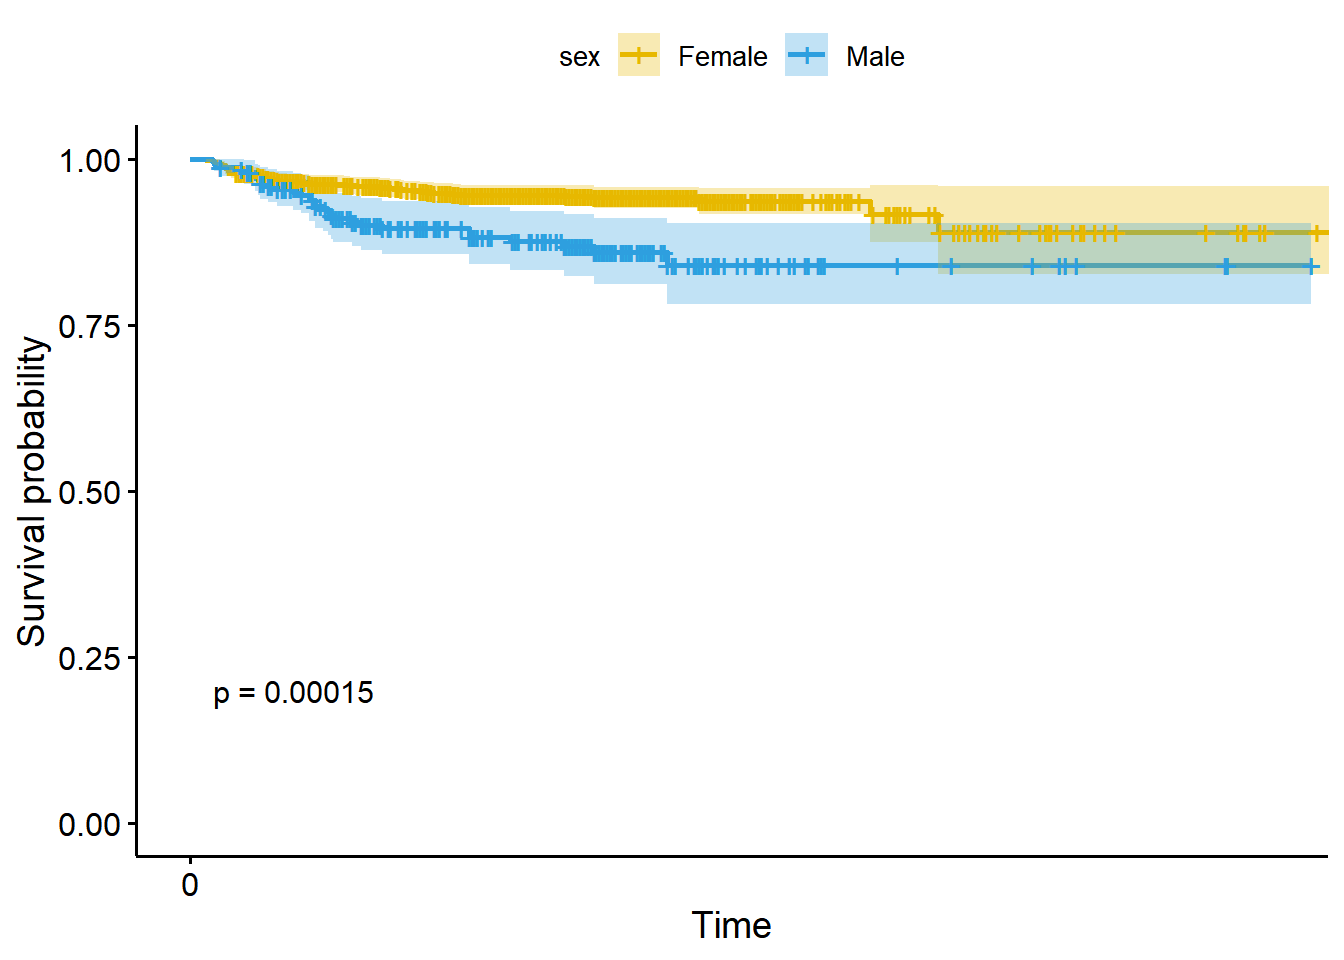
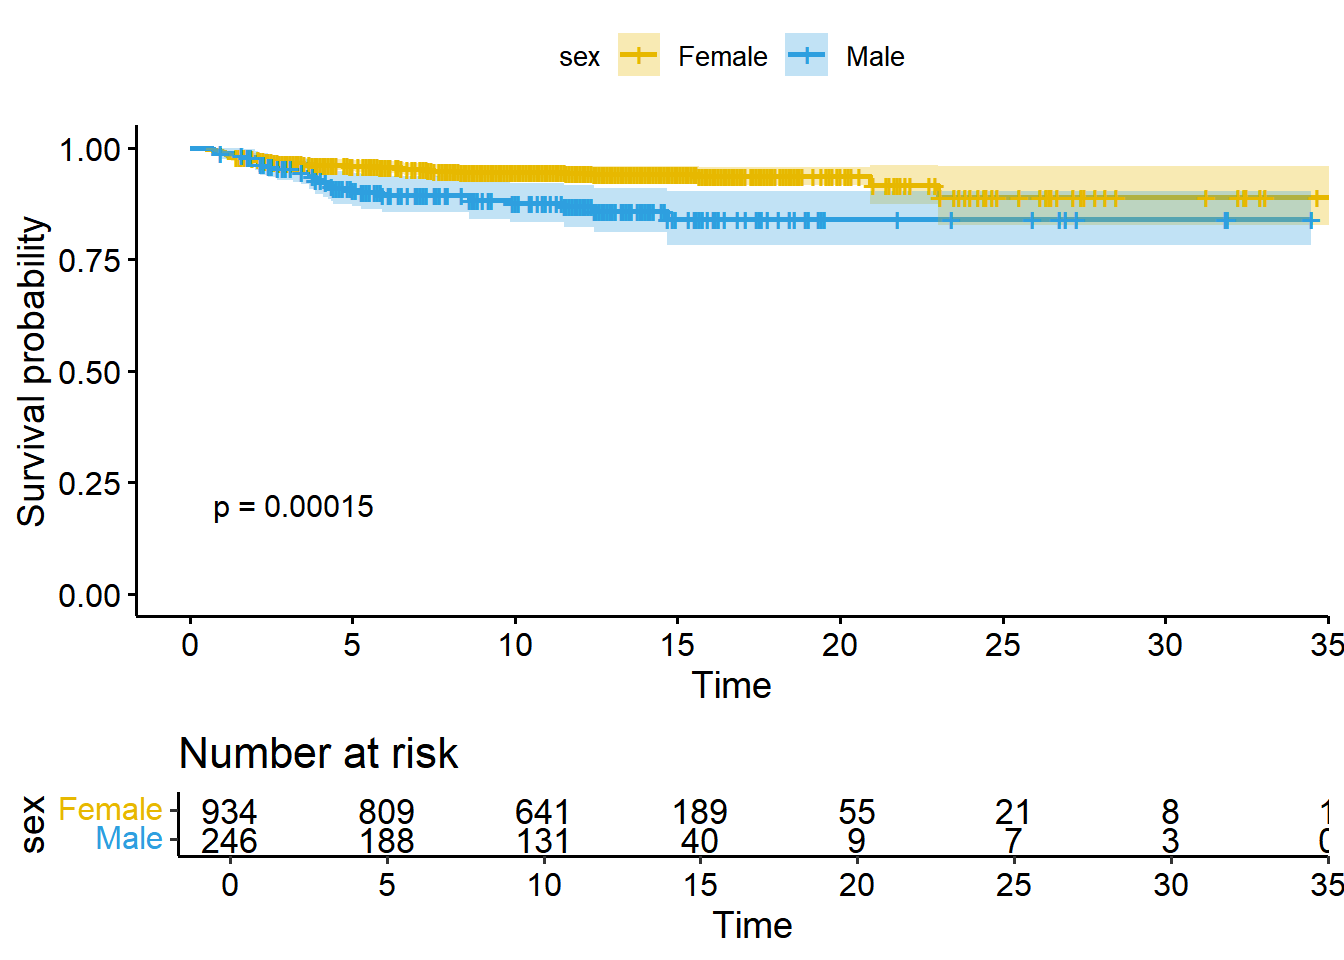
comments

diff --git a/docs/index.html b/docs/index.html
@@ -149,6 +149,7 @@ pre > code.sourceCode > span > a:first-child::before { text-decoration: underlin
   <li><a href="#mytable" id="toc-mytable" class="nav-link" data-scroll-target="#mytable">mytable</a></li>
   <li><a href="#surv함수" id="toc-surv함수" class="nav-link" data-scroll-target="#surv함수">Surv함수</a></li>
   <li><a href="#survfit함수와-객체" id="toc-survfit함수와-객체" class="nav-link" data-scroll-target="#survfit함수와-객체">survfit함수와 객체</a></li>
+  <li><a href="#plot-그래프를-수정" id="toc-plot-그래프를-수정" class="nav-link" data-scroll-target="#plot-그래프를-수정">plot 그래프를 수정</a></li>
   </ul>
 </nav>
     </div>
@@ -230,7 +231,7 @@ Attaching package: 'dplyr'</code></pre>
 <h3 class="anchored" data-anchor-id="mytable">mytable</h3>
 <ul>
 <li>mytable로 자료 개요 파악</li>
-<li>LaTex 출력은 성공하지 못함.</li>
+<li>mylatex 출력은 성공하지 못함.</li>
 </ul>
 <div class="cell">
 <div class="sourceCode cell-code" id="cb6"><pre class="sourceCode r code-with-copy"><code class="sourceCode r"><span id="cb6-1"><a href="#cb6-1" aria-hidden="true" tabindex="-1"></a><span class="fu">library</span>(moonBook)</span>
@@ -356,6 +357,7 @@ Attaching package: 'dplyr'</code></pre>
 </div>
 <ul>
 <li>plot() 함수는 제네릭 함수로, 기본적으로 산점도를 그리지만, Surv 객체를 인자로 받으면 내부적으로 plot.survfit() 메서드를 호출하여 Kaplan-Meier(KM) 곡선을 반환함</li>
+<li>time의 단위가 월이라서 x 축은 400까지 표시됨</li>
 </ul>
 <div class="cell">
 <div class="sourceCode cell-code" id="cb12"><pre class="sourceCode r code-with-copy"><code class="sourceCode r"><span id="cb12-1"><a href="#cb12-1" aria-hidden="true" tabindex="-1"></a><span class="fu">plot</span>(km) <span class="do">## km - Surv class (time, status) 가지고 있는 리스트</span></span></code><button title="Copy to Clipboard" class="code-copy-button"><i class="bi"></i></button></pre></div>
@@ -370,8 +372,8 @@ Attaching package: 'dplyr'</code></pre>
 <ul>
 <li><strong>survfit 함수의 인자</strong>로 사용되므로 중요</li>
 </ul>
-<section id="중앙생존시간-및-평균생존시간" class="level4">
-<h4 class="anchored" data-anchor-id="중앙생존시간-및-평균생존시간">** 중앙생존시간 및 평균생존시간</h4>
+<section id="중앙생존시간" class="level4">
+<h4 class="anchored" data-anchor-id="중앙생존시간">중앙생존시간</h4>
 <div class="cell">
 <div class="sourceCode cell-code" id="cb13"><pre class="sourceCode r code-with-copy"><code class="sourceCode r"><span id="cb13-1"><a href="#cb13-1" aria-hidden="true" tabindex="-1"></a><span class="fu">median</span>(km)  <span class="do">## Surv 객체에 대한 method 함수들이 있다.</span></span></code><button title="Copy to Clipboard" class="code-copy-button"><i class="bi"></i></button></pre></div>
 <div class="cell-output cell-output-stdout">
@@ -388,6 +390,9 @@ $upper
 NA </code></pre>
 </div>
 </div>
+</section>
+<section id="평균생존기간" class="level4">
+<h4 class="anchored" data-anchor-id="평균생존기간">평균생존기간</h4>
 <div class="cell">
 <div class="sourceCode cell-code" id="cb15"><pre class="sourceCode r code-with-copy"><code class="sourceCode r"><span id="cb15-1"><a href="#cb15-1" aria-hidden="true" tabindex="-1"></a><span class="fu">mean</span>(km)</span></code><button title="Copy to Clipboard" class="code-copy-button"><i class="bi"></i></button></pre></div>
 <div class="cell-output cell-output-stdout">
@@ -400,6 +405,7 @@ NA </code></pre>
 <h3 class="anchored" data-anchor-id="survfit함수와-객체">survfit함수와 객체</h3>
 <ul>
 <li>Surv 객체와 공변량을 formula 형태의 인자로 받아 Kaplan-Meier 또는 Cox 모델 기반 생존 확률을 저장한 객체를 반환</li>
+<li>Kaplan-Meier 기반</li>
 </ul>
 <div class="cell">
 <div class="sourceCode cell-code" id="cb17"><pre class="sourceCode r code-with-copy"><code class="sourceCode r"><span id="cb17-1"><a href="#cb17-1" aria-hidden="true" tabindex="-1"></a><span class="fu">plot</span>(<span class="fu">survfit</span>(km<span class="sc">~</span><span class="dv">1</span>)) <span class="co">#Kaplan-Meier 기반</span></span></code><button title="Copy to Clipboard" class="code-copy-button"><i class="bi"></i></button></pre></div>
@@ -411,6 +417,9 @@ NA </code></pre>
 </div>
 </div>
 </div>
+<ul>
+<li>cox model 기반</li>
+</ul>
 <div class="cell">
 <div class="sourceCode cell-code" id="cb18"><pre class="sourceCode r code-with-copy"><code class="sourceCode r"><span id="cb18-1"><a href="#cb18-1" aria-hidden="true" tabindex="-1"></a>km_fit <span class="ot">&lt;-</span> <span class="fu">survfit</span>(km<span class="sc">~</span>rai_recur<span class="sc">$</span>sex) <span class="co">#cox model 기반</span></span>
 <span id="cb18-2"><a href="#cb18-2" aria-hidden="true" tabindex="-1"></a></span>
@@ -423,6 +432,9 @@ NA </code></pre>
 </div>
 </div>
 </div>
+<ul>
+<li>summary</li>
+</ul>
 <div class="cell">
 <div class="sourceCode cell-code" id="cb19"><pre class="sourceCode r code-with-copy"><code class="sourceCode r"><span id="cb19-1"><a href="#cb19-1" aria-hidden="true" tabindex="-1"></a><span class="fu">summary</span>(km_fit) </span></code><button title="Copy to Clipboard" class="code-copy-button"><i class="bi"></i></button></pre></div>
 <div class="cell-output cell-output-stdout">
@@ -500,24 +512,62 @@ NA </code></pre>
   176     46       1    0.840 0.03088        0.782        0.903</code></pre>
 </div>
 </div>
+<ul>
+<li>1~19년</li>
+</ul>
 <div class="cell">
-<div class="sourceCode cell-code" id="cb21"><pre class="sourceCode r code-with-copy"><code class="sourceCode r"><span id="cb21-1"><a href="#cb21-1" aria-hidden="true" tabindex="-1"></a><span class="fu">summary</span>(km_fit, <span class="fu">c</span>(<span class="dv">365</span><span class="sc">*</span><span class="dv">1</span><span class="sc">:</span><span class="dv">19</span>)) <span class="do">### 정해진 time에 맞는 생존테이블표를 만든다.</span></span></code><button title="Copy to Clipboard" class="code-copy-button"><i class="bi"></i></button></pre></div>
+<div class="sourceCode cell-code" id="cb21"><pre class="sourceCode r code-with-copy"><code class="sourceCode r"><span id="cb21-1"><a href="#cb21-1" aria-hidden="true" tabindex="-1"></a><span class="fu">summary</span>(km_fit, <span class="fu">c</span>(<span class="dv">12</span><span class="sc">*</span><span class="dv">1</span><span class="sc">:</span><span class="dv">19</span>)) <span class="do">### 정해진 time에 맞는 생존테이블표를 만든다.</span></span></code><button title="Copy to Clipboard" class="code-copy-button"><i class="bi"></i></button></pre></div>
 <div class="cell-output cell-output-stdout">
 <pre><code>Call: survfit(formula = km ~ rai_recur$sex)
 
                 rai_recur$sex=F 
-        time       n.risk      n.event     survival      std.err lower 95% CI 
-    365.0000       8.0000      53.0000       0.8898       0.0335       0.8265 
-upper 95% CI 
-      0.9579 
+ time n.risk n.event survival std.err lower 95% CI upper 95% CI
+   12    926       9    0.990 0.00320        0.984        0.997
+   24    898      12    0.978 0.00485        0.968        0.987
+   36    868      11    0.965 0.00601        0.954        0.977
+   48    833       3    0.962 0.00630        0.950        0.974
+   60    809       2    0.960 0.00650        0.947        0.972
+   72    777       2    0.957 0.00670        0.944        0.970
+   84    753       4    0.952 0.00712        0.938        0.966
+   96    723       3    0.948 0.00743        0.934        0.963
+  108    687       2    0.946 0.00764        0.931        0.961
+  120    641       0    0.946 0.00764        0.931        0.961
+  132    559       0    0.946 0.00764        0.931        0.961
+  144    474       1    0.944 0.00785        0.929        0.959
+  156    373       1    0.942 0.00812        0.926        0.958
+  168    297       0    0.942 0.00812        0.926        0.958
+  180    189       0    0.942 0.00812        0.926        0.958
+  192    143       1    0.936 0.00996        0.917        0.956
+  204    113       0    0.936 0.00996        0.917        0.956
+  216     88       0    0.936 0.00996        0.917        0.956
+  228     63       0    0.936 0.00996        0.917        0.956
 
                 rai_recur$sex=M 
-        time       n.risk      n.event     survival      std.err lower 95% CI 
-    365.0000       3.0000      30.0000       0.8402       0.0309       0.7818 
-upper 95% CI 
-      0.9029 </code></pre>
+ time n.risk n.event survival std.err lower 95% CI upper 95% CI
+   12    242       3    0.988  0.0070        0.974        1.000
+   24    234       4    0.971  0.0107        0.950        0.992
+   36    220       4    0.954  0.0134        0.928        0.981
+   48    208       6    0.928  0.0168        0.896        0.962
+   60    188       5    0.905  0.0193        0.868        0.944
+   72    164       2    0.895  0.0204        0.856        0.936
+   84    157       0    0.895  0.0204        0.856        0.936
+   96    146       0    0.895  0.0204        0.856        0.936
+  108    137       2    0.882  0.0219        0.841        0.926
+  120    131       1    0.876  0.0227        0.832        0.922
+  132    122       0    0.876  0.0227        0.832        0.922
+  144    105       1    0.868  0.0237        0.823        0.916
+  156     75       1    0.859  0.0253        0.811        0.910
+  168     54       0    0.859  0.0253        0.811        0.910
+  180     40       1    0.840  0.0309        0.782        0.903
+  192     33       0    0.840  0.0309        0.782        0.903
+  204     26       0    0.840  0.0309        0.782        0.903
+  216     19       0    0.840  0.0309        0.782        0.903
+  228     15       0    0.840  0.0309        0.782        0.903</code></pre>
 </div>
 </div>
+</section>
+<section id="plot-그래프를-수정" class="level3">
+<h3 class="anchored" data-anchor-id="plot-그래프를-수정">plot 그래프를 수정</h3>
 <div class="cell">
 <div class="sourceCode cell-code" id="cb23"><pre class="sourceCode r code-with-copy"><code class="sourceCode r"><span id="cb23-1"><a href="#cb23-1" aria-hidden="true" tabindex="-1"></a><span class="fu">plot</span>(km_fit, <span class="at">col =</span> <span class="fu">rainbow</span>(<span class="dv">2</span>), <span class="at">lty=</span><span class="dv">1</span><span class="sc">:</span><span class="dv">2</span>)</span>
 <span id="cb23-2"><a href="#cb23-2" aria-hidden="true" tabindex="-1"></a><span class="fu">legend</span>(<span class="st">"topright"</span>, <span class="at">legend =</span> <span class="fu">c</span>(<span class="st">"Female"</span>,<span class="st">"Male"</span>),</span>
@@ -530,6 +580,8 @@ upper 95% CI
 </div>
 </div>
 </div>
+<section id="risk.table-추가하기" class="level4">
+<h4 class="anchored" data-anchor-id="risk.table-추가하기">risk.table 추가하기</h4>
 <div class="cell">
 <div class="sourceCode cell-code" id="cb24"><pre class="sourceCode r code-with-copy"><code class="sourceCode r"><span id="cb24-1"><a href="#cb24-1" aria-hidden="true" tabindex="-1"></a><span class="fu">library</span>(survminer)</span></code><button title="Copy to Clipboard" class="code-copy-button"><i class="bi"></i></button></pre></div>
 <div class="cell-output cell-output-stderr">
@@ -554,12 +606,12 @@ Attaching package: 'survminer'</code></pre>
 <span id="cb30-2"><a href="#cb30-2" aria-hidden="true" tabindex="-1"></a>  km_fit, </span>
 <span id="cb30-3"><a href="#cb30-3" aria-hidden="true" tabindex="-1"></a>  <span class="at">data =</span> rai_recur,</span>
 <span id="cb30-4"><a href="#cb30-4" aria-hidden="true" tabindex="-1"></a>  <span class="at">conf.int =</span> T, </span>
-<span id="cb30-5"><a href="#cb30-5" aria-hidden="true" tabindex="-1"></a>  <span class="at">xscale =</span> <span class="fl">365.2425</span>, <span class="do">## xscale can be "d_y"</span></span>
-<span id="cb30-6"><a href="#cb30-6" aria-hidden="true" tabindex="-1"></a>  <span class="at">break.x.by =</span> <span class="dv">5</span><span class="sc">*</span><span class="fl">365.2425</span>,</span>
+<span id="cb30-5"><a href="#cb30-5" aria-hidden="true" tabindex="-1"></a>  <span class="at">xscale =</span> <span class="dv">12</span>, <span class="do">## xscale can be "d_y"</span></span>
+<span id="cb30-6"><a href="#cb30-6" aria-hidden="true" tabindex="-1"></a>  <span class="at">break.x.by =</span> <span class="dv">5</span><span class="sc">*</span><span class="dv">12</span>,</span>
 <span id="cb30-7"><a href="#cb30-7" aria-hidden="true" tabindex="-1"></a>  <span class="at">pval =</span> T, </span>
 <span id="cb30-8"><a href="#cb30-8" aria-hidden="true" tabindex="-1"></a>  <span class="at">pval.size =</span><span class="dv">4</span>, </span>
 <span id="cb30-9"><a href="#cb30-9" aria-hidden="true" tabindex="-1"></a>  <span class="at">surv.median.line =</span> <span class="st">"hv"</span>,</span>
-<span id="cb30-10"><a href="#cb30-10" aria-hidden="true" tabindex="-1"></a>  <span class="at">risk.table =</span> <span class="cn">FALSE</span>, <span class="do">## if TRUE, risk table is displayed under graph</span></span>
+<span id="cb30-10"><a href="#cb30-10" aria-hidden="true" tabindex="-1"></a>  <span class="at">risk.table =</span> <span class="cn">TRUE</span>, <span class="do">## if TRUE, risk table is displayed under graph</span></span>
 <span id="cb30-11"><a href="#cb30-11" aria-hidden="true" tabindex="-1"></a>  <span class="at">legend.title=</span><span class="st">"sex"</span>, </span>
 <span id="cb30-12"><a href="#cb30-12" aria-hidden="true" tabindex="-1"></a>  <span class="at">legend.labs=</span><span class="fu">c</span>(<span class="st">"Female"</span>,<span class="st">"Male"</span>),</span>
 <span id="cb30-13"><a href="#cb30-13" aria-hidden="true" tabindex="-1"></a>  <span class="at">palette =</span> <span class="fu">c</span>(<span class="st">"#E7B800"</span>, <span class="st">"#2E9FDF"</span>),</span>
@@ -578,6 +630,7 @@ Median survival not reached.</code></pre>
 </div>
 
 
+</section>
 </section>
 
 </main> <!-- /main -->
